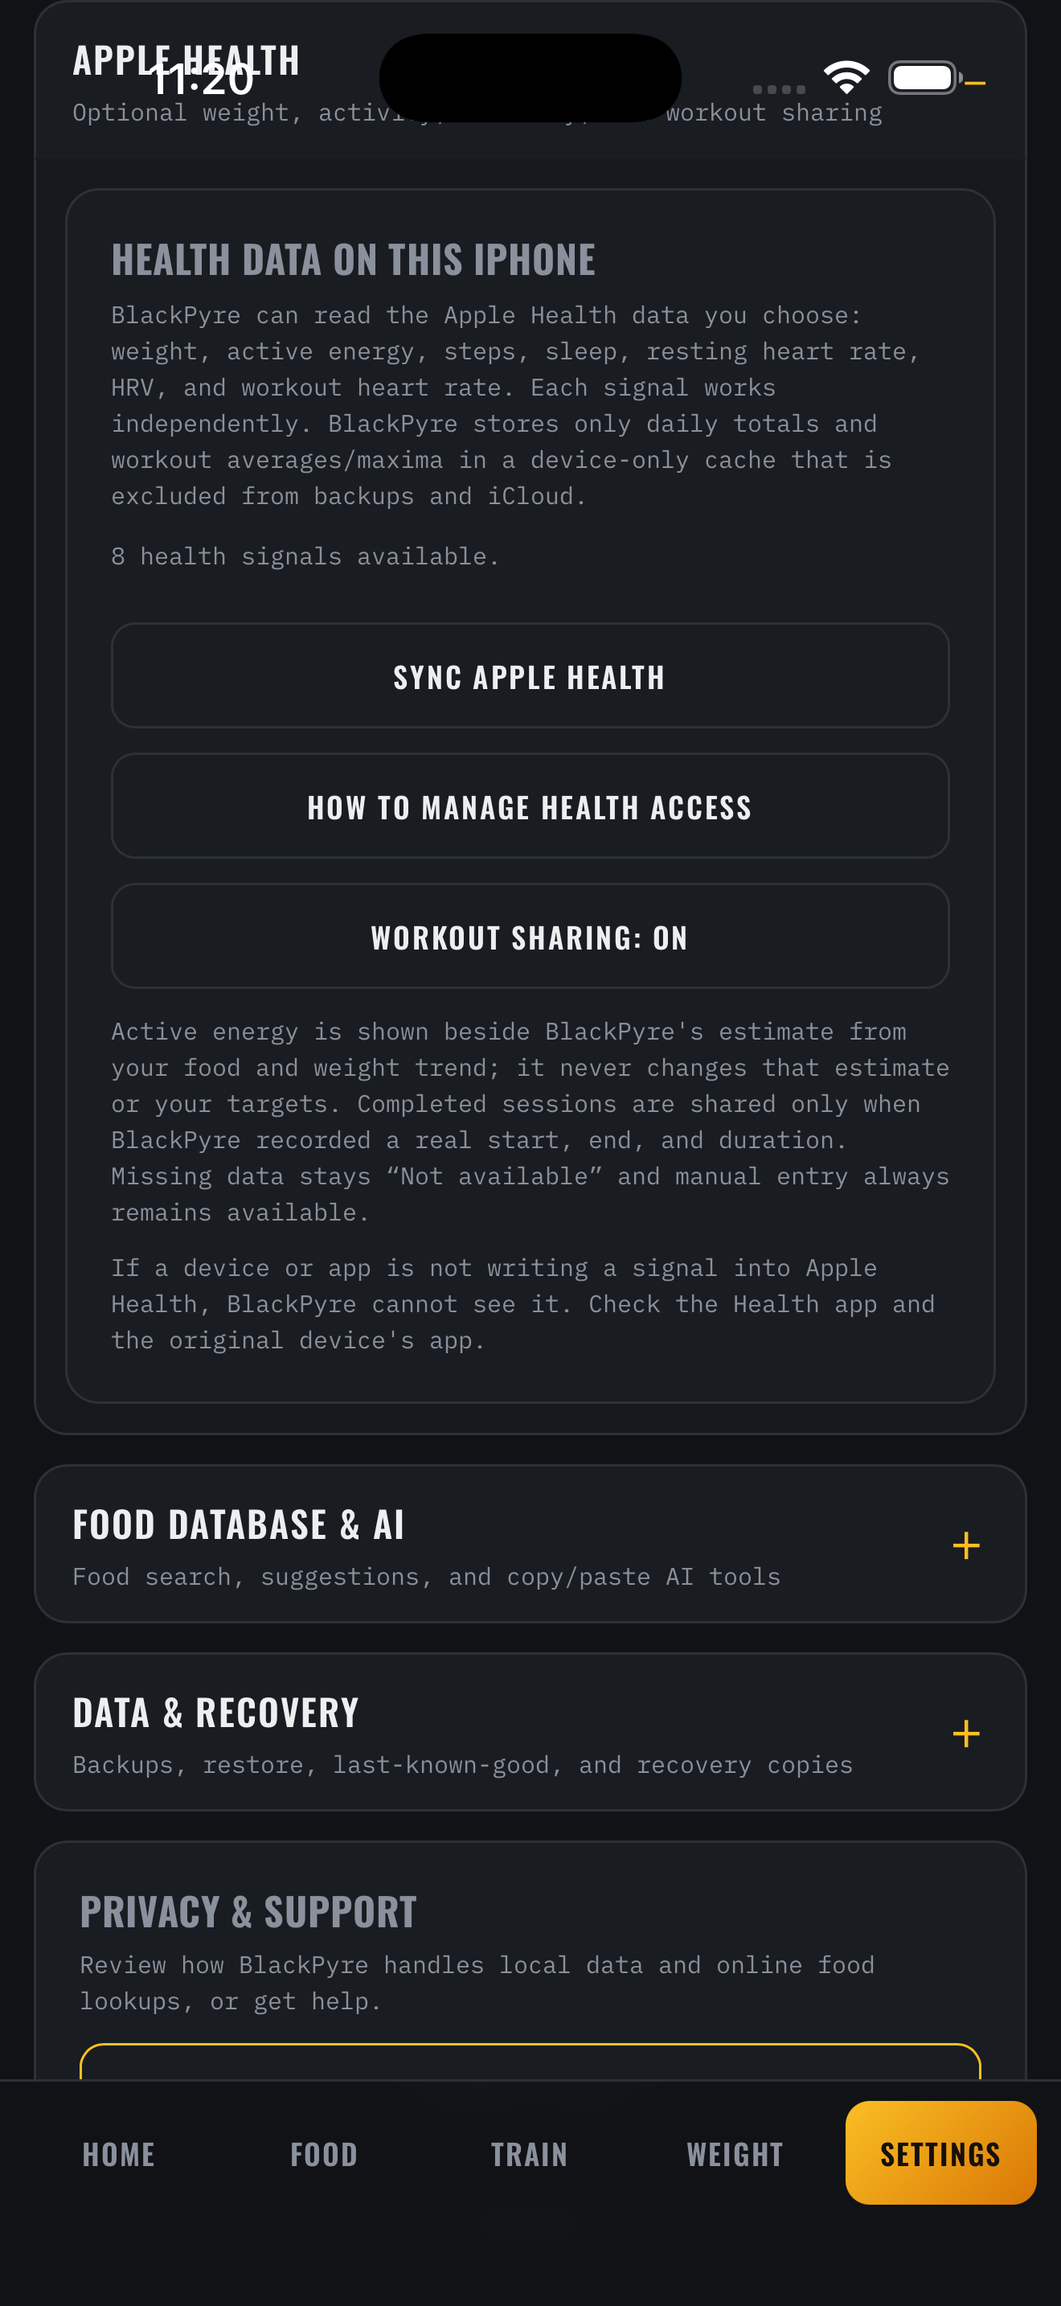
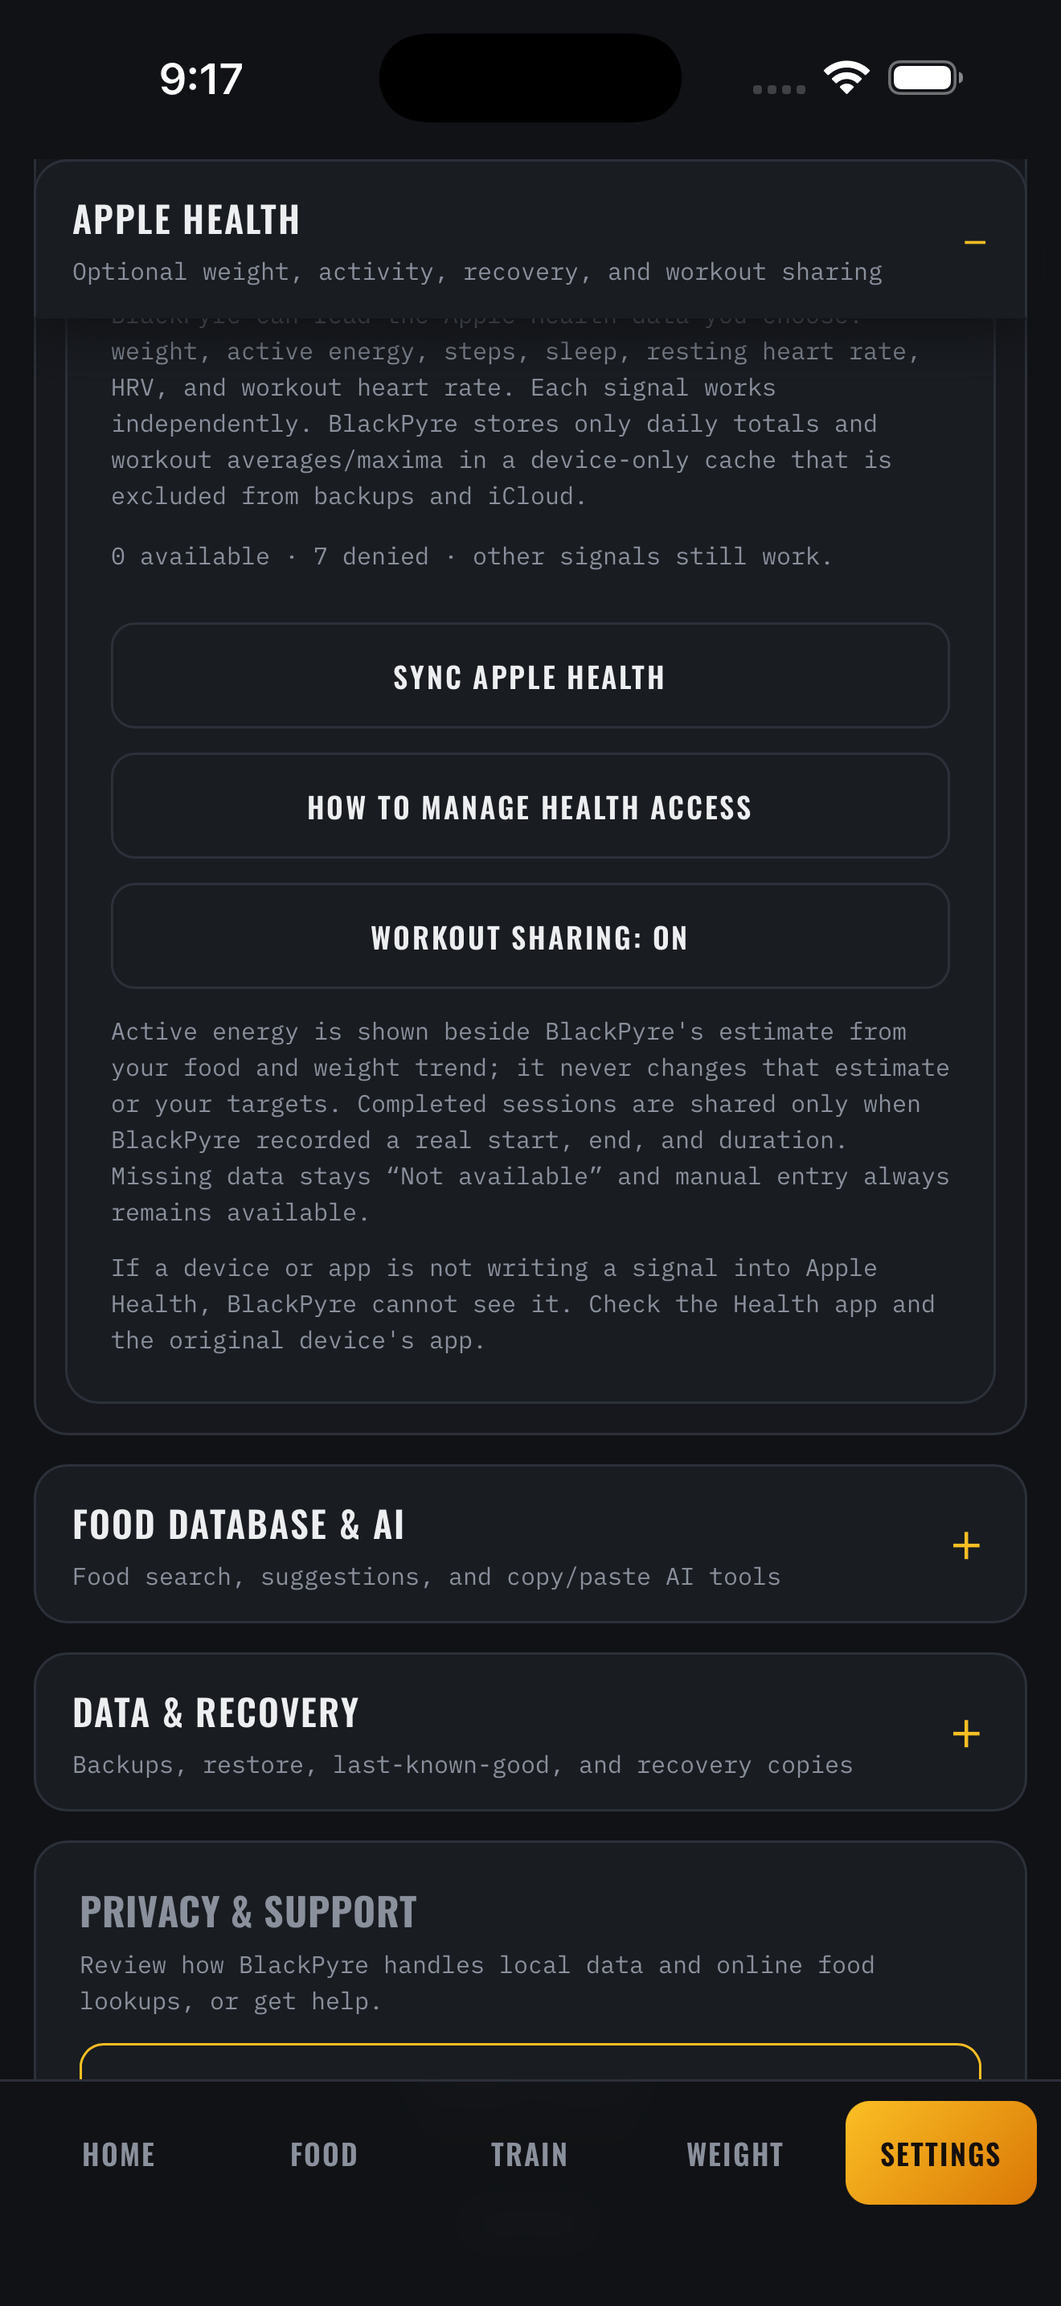
Harden BlackPyre 1.0 build 3 for release

Changed region(s): [[0.0621, 0.0, 0.5591, 0.1552], [0.3727, 0.2172, 0.4038, 0.2483]]

diff --git a/tests/phase4-app-store-connect.test.js b/tests/phase4-app-store-connect.test.js
@@ -18,6 +18,9 @@ const faq=fs.readFileSync("data-faq.js","utf8");
 const screenshotReadme=fs.readFileSync("APP-STORE-SCREENSHOTS/README.md","utf8");
 const screenshotManifest=fs.readFileSync("APP-STORE-SCREENSHOTS/MANIFEST.sha256","utf8");
 const screenshotSeed=fs.readFileSync("tools/prepare-app-store-screenshots.js","utf8");
+const index=fs.readFileSync("index.html","utf8");
+const settings=fs.readFileSync("scripts/06-settings.js","utf8");
+const sw=fs.readFileSync("sw.js","utf8");
 
 const subtitle="Nutrition & Training, Forged";
 const promotional="Track nutrition, training, weight, measurements, water, and Apple Health data—privately, locally, and without a BlackPyre account.";
@@ -32,6 +35,10 @@ check("packet includes required support URL",packet.includes("https://ryanlifts.
 check("privacy policy is iOS-specific",/BlackPyre for iOS Privacy Policy/.test(privacy));
 check("privacy policy covers optional Apple Health",/Apple Health access is optional/.test(privacy));
 check("privacy policy covers complete local deletion",/Erase all BlackPyre data/.test(privacy));
+check("camera disclosure covers barcode scanning and an optional user-directed meal photo",
+  /scan food barcodes/.test(privacy)&&/take a meal photo/.test(privacy));
+check("private BlackPyre support email is published without exposing a personal address",
+  /blackpyrestrong@gmail\.com/.test(privacy)&&/blackpyrestrong@gmail\.com/.test(support));
 check("support page explains recovery before uninstall",/do not uninstall/i.test(support));
 check("Open Food Facts rights are attributed",/Open Database License \(ODbL\)/.test(notices));
 check("all shipped native component licenses are bundled",
@@ -95,6 +102,14 @@ check("screenshot seed is simulator-only and cannot target RAW",
   /Pass an iOS Simulator UDID/.test(screenshotSeed)
   &&/\/CoreSimulator\/Devices\//.test(screenshotSeed)
   &&!/RAW/.test(screenshotSeed));
+check("open Settings sections remain below the iPhone safe area while scrolling",
+  /#view-settings \.disclosure\[open\] > summary\s*\{[\s\S]*?position:sticky;[\s\S]*?safe-area-inset-top/.test(index));
+check("backup age display uses the clamped elapsed-day helper",
+  /const localDays = backupElapsedDays\(m\.lastBackup\);/.test(settings));
+check("partial erase failure states exactly what was and was not restored",
+  /Logs and settings were restored/.test(settings)&&/app-owned files inside BlackPyre may already have been removed/.test(settings));
+check("service worker falls back to HTML only for navigation requests",
+  /e\.request\.mode === "navigate"/.test(sw)&&!/\.catch\(\(\) => caches\.match\("\.\/index\.html"\)\)/.test(sw));
 check("Phase 4 records resolved U.S. launch and continued web support",
   /\*\*Status:\*\* COMPLETE/.test(packet)
   &&/Initial country and region: United States only/.test(packet)

diff --git a/privacy.html b/privacy.html
@@ -29,7 +29,7 @@ body{box-sizing:border-box;margin:0;background:#101215;color:#EDEEF0;font-family
 <p>When you search for a packaged food or look up an unknown barcode, BlackPyre sends the search words or barcode to Open Food Facts over HTTPS. Open Food Facts receives the request and associated network information such as your IP address. BlackPyre does not send your food log, name, targets, weight, or training history with that request. See the <a href="https://world.openfoodfacts.org/privacy" rel="noopener">Open Food Facts privacy information</a>.</p>
 
 <h2>Camera and photos</h2>
-<p>The camera is used only to scan food barcodes. Barcode recognition runs inside the app. BlackPyre does not upload camera images. A photo selected for an optional AI handoff remains in memory until you share, clear, or finish the handoff; BlackPyre does not transmit it to an AI service.</p>
+<p>The camera is used to scan food barcodes and, if you choose, to take a meal photo for an AI handoff you send yourself. Barcode recognition runs inside the app. BlackPyre does not upload camera images. A photo selected or taken for an optional AI handoff remains in memory until you share, clear, or finish the handoff; BlackPyre does not transmit it to an AI service.</p>
 
 <h2>AI copy/paste handoffs</h2>
 <p>BlackPyre never contacts an AI provider. It can prepare text or a selected photo for you to copy or share. Any transfer occurs only when you choose another app or service, and that service's privacy terms then apply.</p>
@@ -44,7 +44,7 @@ body{box-sizing:border-box;margin:0;background:#101215;color:#EDEEF0;font-family
 <p>BlackPyre is designed for ages 13 and older. The calculator is not designed for children under 13.</p>
 
 <h2>Changes and contact</h2>
-<p>This policy will be updated when BlackPyre's iOS data practices change. Developer and privacy contact: Ryan Allen Wilsey. Submit a private-data-free question through <a href="https://github.com/ryanlifts/Forge/issues" rel="noopener">BlackPyre Support</a>. Do not post personal health, nutrition, or training information publicly.</p>
+<p>This policy will be updated when BlackPyre's iOS data practices change. Developer: Ryan Allen Wilsey. For a private privacy or support question, email <a href="mailto:blackpyrestrong@gmail.com">blackpyrestrong@gmail.com</a>. You may also use <a href="https://github.com/ryanlifts/Forge/issues" rel="noopener">BlackPyre Support</a> for questions that contain no personal information. Do not post personal health, nutrition, or training information publicly.</p>
 <p><a href="./support.html">Support</a> · <a href="./third-party-notices.html">Third-party notices</a> · <a href="./">Return to BlackPyre</a></p>
 <p class="muted">© 2026 Ryan Allen Wilsey. All rights reserved.</p>
 </main></body></html>

diff --git a/tests/app-store-phase2.test.js b/tests/app-store-phase2.test.js
@@ -17,6 +17,7 @@ const sha256=relative=>crypto.createHash("sha256").update(fs.readFileSync(path.j
 
 async function run(){
   const privacy=read("ios/App/App/PrivacyInfo.xcprivacy");
+  const extensionPrivacy=read("ios/App/BlackPyreRestActivity/PrivacyInfo.xcprivacy");
   const privacyPage=read("privacy.html");
   const index=read("index.html");
   const ai=read("scripts/05-ai.js");
@@ -27,6 +28,10 @@ async function run(){
     && /NSPrivacyAccessedAPICategoryFileTimestamp/.test(privacy)
     && /C617\.1/.test(privacy)
     && /<key>NSPrivacyTracking<\/key>\s*<false\/>/.test(privacy));
+  check("Live Activity extension bundles a privacy manifest with no tracking or collection",
+    /C4A400062E5A000000000001 \/\* PrivacyInfo\.xcprivacy in Resources \*\//.test(project)
+    && /<key>NSPrivacyCollectedDataTypes<\/key>\s*<array\/>/.test(extensionPrivacy)
+    && /<key>NSPrivacyTracking<\/key>\s*<false\/>/.test(extensionPrivacy));
   check("native WebKit appends BlackPyre identification without replacing the standard user agent",
     /applicationNameForUserAgent/.test(bridge)
     && /BlackPyre\/1\.0/.test(bridge)
@@ -36,14 +41,22 @@ async function run(){
     && /blackpyre-native-vault\.json/.test(bridge)
     && /eraseNativeFiles/.test(bridge)
     && /protectNativeManagedFile\(filename,"DOCUMENTS"\)/.test(read("scripts/06-settings.js")));
+  check("native document management is restricted to BlackPyre-created backup prefixes",
+    /documentExportPrefixes/.test(bridge)
+    && /blackpyre-backup-/.test(bridge)
+    && /blackpyre-PARTIAL-/.test(bridge)
+    && !/name\.hasPrefix\("blackpyre-"\)/.test(bridge));
 
   const buildNumbers=[...project.matchAll(/CURRENT_PROJECT_VERSION = (\d+);/g)].map(match=>Number(match[1]));
-  check("app and Live Activity configurations use App Store build 2",buildNumbers.length===4&&buildNumbers.every(value=>value===2));
+  check("app and Live Activity configurations use App Store candidate build 3",buildNumbers.length===4&&buildNumbers.every(value=>value===3));
   check("Capacitor 8.5.0 and the secure brace-expansion override are pinned",(()=>{
     const pkg=JSON.parse(read("package.json"));
     return pkg.dependencies["@capacitor/cli"]==="8.5.0"
       && pkg.dependencies["@capacitor/core"]==="8.5.0"
       && pkg.dependencies["@capacitor/ios"]==="8.5.0"
+      && pkg.dependencies["@capacitor/filesystem"]==="8.1.2"
+      && pkg.dependencies["@capacitor/local-notifications"]==="8.2.1"
+      && pkg.dependencies["@capacitor/share"]==="8.0.1"
       && pkg.overrides["brace-expansion"]==="5.0.9";
   })());
   check("vendored html5-qrcode remains the npm-verified 2.3.8 build",

diff --git a/tests/phase5-testflight-readiness.test.js b/tests/phase5-testflight-readiness.test.js
@@ -10,9 +10,11 @@ function check(name,condition){
 const project=fs.readFileSync("ios/App/App.xcodeproj/project.pbxproj","utf8");
 const plist=fs.readFileSync("ios/App/App/Info.plist","utf8");
 const packet=fs.readFileSync("BLACKPYRE-PHASE-05-INTERNAL-TESTFLIGHT.md","utf8");
+const runner=fs.readFileSync("tests/run-tests.sh","utf8");
 
 check("TestFlight version is 1.0",/MARKETING_VERSION = 1\.0;/.test(project));
-check("first TestFlight build is 2",/CURRENT_PROJECT_VERSION = 2;/.test(project)&&/First build:\*\* 2/.test(packet));
+check("first TestFlight upload remains recorded as build 2",/First build:\*\* 2/.test(packet));
+check("release-hardening candidate is build 3",/CURRENT_PROJECT_VERSION = 3;/.test(project)&&/Candidate build:\*\* 3/.test(packet));
 check("app bundle identifier is stable",/PRODUCT_BUNDLE_IDENTIFIER = com\.blackpyre\.app;/.test(project));
 check("Live Activity bundle identifier is stable",/PRODUCT_BUNDLE_IDENTIFIER = com\.blackpyre\.app\.resttimer;/.test(project));
 check("app remains iPhone only",/TARGETED_DEVICE_FAMILY = 1;/.test(project));
@@ -23,6 +25,8 @@ check("app record values are prepared",/BLACKPYRE-IOS-1/.test(packet)&&/English 
 check("internal test group and first tester are prepared",/BlackPyre Internal/.test(packet)&&/First tester:\*\* Ryan/.test(packet));
 check("TestFlight lifecycle covers update preservation",/update-in-place data-preservation check/i.test(packet));
 check("private feedback address remains direct entry",/feedback email must be entered directly/i.test(packet));
+check("permanent gauntlet includes all four formerly manual release suites",
+  ["manual-food-slider","phase2-keyless-food-data","phase4a-paid-distribution","phase5-testflight-readiness"].every(name=>runner.includes("tests/"+name+".test.js")));
 
 console.log(`\nPHASE 5 TESTFLIGHT READINESS: ${passed} passed, ${failed} failed`);
 if(failed) process.exit(1);

diff --git a/tests/integration.test.js b/tests/integration.test.js
@@ -2089,7 +2089,7 @@ const sw = fs.readFileSync(path.join(__dirname, "..", "sw.js"), "utf8");
 check("native app disables double-tap and pinch zoom while preserving one-finger panning", html.includes("user-scalable=no") && html.includes("maximum-scale=1.0") && /html, body\s*\{\s*touch-action:pan-x pan-y;\s*\}/.test(html));
 check("SW precaches the five data files", ["data-quotes.js","data-foods.js","data-suggestions.js","data-faq.js","data-exercises.js"].every(f=>sw.includes('"./'+f+'"')));
 check("SW cache name matches the release", /const CACHE = "blackpyre-v\d+(?:-\d+)?"/.test(sw));
-check("native service-worker cache is bumped", sw.includes('const CACHE = "blackpyre-v111"'));
+check("native service-worker cache is bumped", sw.includes('const CACHE = "blackpyre-v112"'));
 
 const nativePrep76 = fs.readFileSync(
   path.join(__dirname,"..","tools","prepare-native.sh"),
@@ -2618,6 +2618,7 @@ const deleteData={food:{},workouts:[{date:deleteDay,day:"D1",title:"Delete Me",s
 deleteData.food[deleteDay]=[{name:"Food Entry",cal:100,pro:10,carb:5,fat:2,meal:"other"}];
 const U56=boot(Object.assign({},V3_CFG,{measureOn:true}),deleteData,null,TEST_PROGRAM);
 const dU56=U56.window.document;
+U56.window.confirm=()=>true;
 dU56.querySelector("#workHistory .delWork").dispatchEvent(new U56.window.Event("click",{bubbles:true}));
 check("v56 workout deletion offers working Undo", U56.window.eval("data.workouts.length")===0 && !dU56.getElementById("undoToast").classList.contains("hidden"));
 dU56.getElementById("undoBtn").dispatchEvent(new U56.window.Event("click",{bubbles:true}));

diff --git a/tools/prepare-app-store-screenshots.js b/tools/prepare-app-store-screenshots.js
@@ -11,8 +11,12 @@ const path = require("path");
 const childProcess = require("child_process");
 
 const udid = process.argv[2];
+const requestedPanel = process.argv[3] || "1";
 if (!/^[A-F0-9-]{36}$/.test(String(udid || ""))) {
   throw new Error("Pass an iOS Simulator UDID.");
+}
+if (!["1", "health", "data"].includes(requestedPanel)) {
+  throw new Error("Optional screenshot panel must be health or data.");
 }
 
 function run(command, args) {
@@ -27,7 +31,11 @@ if (!container.includes("/CoreSimulator/Devices/") || !fs.existsSync(container))
   throw new Error("Refusing to seed anything except an installed Simulator app.");
 }
 
-run("xcrun", ["simctl", "terminate", udid, "com.blackpyre.app"]);
+try {
+  run("xcrun", ["simctl", "terminate", udid, "com.blackpyre.app"]);
+} catch (error) {
+  // A freshly installed screenshot build may not be running yet.
+}
 
 function findFile(dir, filename) {
   for (const entry of fs.readdirSync(dir, { withFileTypes: true })) {
@@ -214,7 +222,7 @@ const sql = [
   sqlUpsert("forge:cfg", JSON.stringify(cfg)),
   sqlUpsert("forge:data", JSON.stringify(data)),
   sqlUpsert("forge:program", JSON.stringify(program)),
-  sqlUpsert("blackpyre:phase4-screenshot-mode", "1"),
+  sqlUpsert("blackpyre:phase4-screenshot-mode", requestedPanel),
   "COMMIT;"
 ].join("\n");
 

diff --git a/tests/live-activity-rest-timer.test.js b/tests/live-activity-rest-timer.test.js
@@ -27,6 +27,7 @@ check("native bridge registers the rest activity plugin",/registerPluginInstance
 check("plugin respects Live Activity authorization",/ActivityAuthorizationInfo\(\)\.areActivitiesEnabled/.test(bridge));
 check("plugin requests, updates, and ends activities",/Activity\.request/.test(bridge) && /\.update\(using: state\)/.test(bridge) && /\.end\(using: nil, dismissalPolicy: \.immediate\)/.test(bridge));
 check("Lock Screen surface uses a system countdown",/Text\(timerInterval: Date\.now\.\.\.state\.endAt, countsDown: true\)/.test(widget));
+check("expired Live Activity state cannot create an invalid countdown range",/state\.isPaused \|\| state\.endAt <= Date\.now/.test(widget));
 check("Dynamic Island supplies expanded compact and minimal regions",/DynamicIsland \{/.test(widget) && /compactLeading:/.test(widget) && /compactTrailing:/.test(widget) && /minimal:/.test(widget));
 check("running and paused states sync to native",/status:"running"/.test(timer) && /status:"paused"/.test(timer) && /plugin\.sync\(snapshot\)/.test(timer));
 check("finished and cancelled timers dismiss native activity",/(finishRestCountdown\(\)[\s\S]*?endRestActivity\(\))/.test(timer) && /(cancelRest\(\)[\s\S]*?endRestActivity\(\))/.test(timer));

diff --git a/support.html b/support.html
@@ -14,7 +14,7 @@ body{box-sizing:border-box;margin:0;background:#101215;color:#EDEEF0;font-family
 <div class="brand">BlackPyre</div>
 <div class="muted">Burn away the old. Forge what comes next.</div>
 <h1>Support</h1>
-<div class="card"><strong>For help with BlackPyre, open a support request.</strong><br><a href="https://github.com/ryanlifts/Forge/issues/new" rel="noopener">Create a BlackPyre support request</a><br><span class="muted">Do not include personal health, nutrition, training, backup, or diagnostic data in a public request.</span></div>
+<div class="card"><strong>For private help, email BlackPyre Support.</strong><br><a href="mailto:blackpyrestrong@gmail.com">blackpyrestrong@gmail.com</a><br><br><strong>For a question containing no personal information, you may open a public support request.</strong><br><a href="https://github.com/ryanlifts/Forge/issues/new" rel="noopener">Create a BlackPyre support request</a><br><span class="muted">Do not include personal health, nutrition, training, backup, or diagnostic data in a public request.</span></div>
 
 <h2>Before requesting help</h2>
 <ul>

diff --git a/scripts/06-settings.js b/scripts/06-settings.js
@@ -1148,7 +1148,7 @@ async function eraseAllBlackPyreData(){
     restoreBlackPyreStorageAfterErase(snapshot);
     if (btn){ btn.disabled=false; btn.textContent="ERASE ALL BLACKPYRE DATA"; }
     console.error("BlackPyre erase failed:",error);
-    flashSave("Erase failed — existing browser data was preserved",true);
+    flashSave("Erase did not complete. Logs and settings were restored, but some app-owned files inside BlackPyre may already have been removed. Copies saved elsewhere are unchanged.",true);
     return false;
   }
 }
@@ -1661,7 +1661,7 @@ function renderBackup(){
   renderStorageUse();
   const m = data.meta || {lastBackup:null, logsSince:0};
   const line = document.getElementById("backupMetaLine");
-  const localDays = m.lastBackup ? Math.floor((new Date(todayStr())-new Date(m.lastBackup))/BACKUP_DAY_MS) : null;
+  const localDays = backupElapsedDays(m.lastBackup);
   const localText = m.lastBackup
     ? "Last local backup: "+(localDays===0?"today":localDays+" day"+(localDays===1?"":"s")+" ago")+" · "+(m.logsSince||0)+" new logs since."
     : "Last local backup: never.";

diff --git a/scripts/02-food.js b/scripts/02-food.js
@@ -330,8 +330,13 @@ function mapOFFProduct(p){
 // --- OFF search: Search-a-licious only; no retired legacy endpoint fallback ---
 function fetchWithTimeout(url, ms){
   return new Promise((resolve, reject)=>{
-    const t = setTimeout(()=>reject(new Error("timeout")), ms);
-    fetch(url).then(r=>{ clearTimeout(t); resolve(r); }, e=>{ clearTimeout(t); reject(e); });
+    const controller = typeof AbortController==="function" ? new AbortController() : null;
+    const t = setTimeout(()=>{
+      if (controller) controller.abort();
+      reject(new Error("timeout"));
+    }, ms);
+    const options = controller ? {signal:controller.signal} : undefined;
+    fetch(url,options).then(r=>{ clearTimeout(t); resolve(r); }, e=>{ clearTimeout(t); reject(e); });
   });
 }
 async function searchOFF(q){

diff --git a/tests/native-release-decisions.test.js b/tests/native-release-decisions.test.js
@@ -40,8 +40,9 @@ check("native HTML and service worker use only bundled fonts",
   && fontFiles.slice(0,5).every(file=>read("sw.js").includes("./"+file)));
 
 const plist=read("ios/App/App/Info.plist");
-check("camera permission is barcode-specific",
-  plist.includes("BlackPyre uses your camera only to scan food barcodes."));
+check("camera permission accurately covers barcode and optional meal-photo use",
+  /uses your camera to scan food barcodes/.test(plist)
+  && /take a meal photo for an AI handoff you send yourself/.test(plist));
 check("native target is iPhone-only and portrait-only with no armv7 requirement",
   !/armv7|UISupportedInterfaceOrientations~ipad|Landscape/.test(plist)
   && (plist.match(/UIInterfaceOrientationPortrait/g)||[]).length===1);

diff --git a/index.html b/index.html
@@ -633,6 +633,12 @@
   .disclosure > summary::-webkit-details-marker { display:none; }
   .disclosure > summary::after { content:'＋'; color:var(--ember); font-size:18px; flex:0 0 auto; }
   .disclosure[open] > summary { border-radius:14px 14px 0 0; border-bottom-color:transparent; }
+  #view-settings .disclosure[open] > summary {
+    position:sticky;
+    top:calc(env(safe-area-inset-top, 0px) + 4px);
+    z-index:12;
+    box-shadow:0 8px 18px rgba(16,18,21,.92);
+  }
   .disclosure[open] > summary::after { content:'−'; }
   .disclosure-title { font-family:'Oswald',sans-serif; font-size:15px; font-weight:600; letter-spacing:.05em; text-transform:uppercase; }
   .disclosure-sub { color:var(--dim); font-size:10px; margin-top:3px; }
